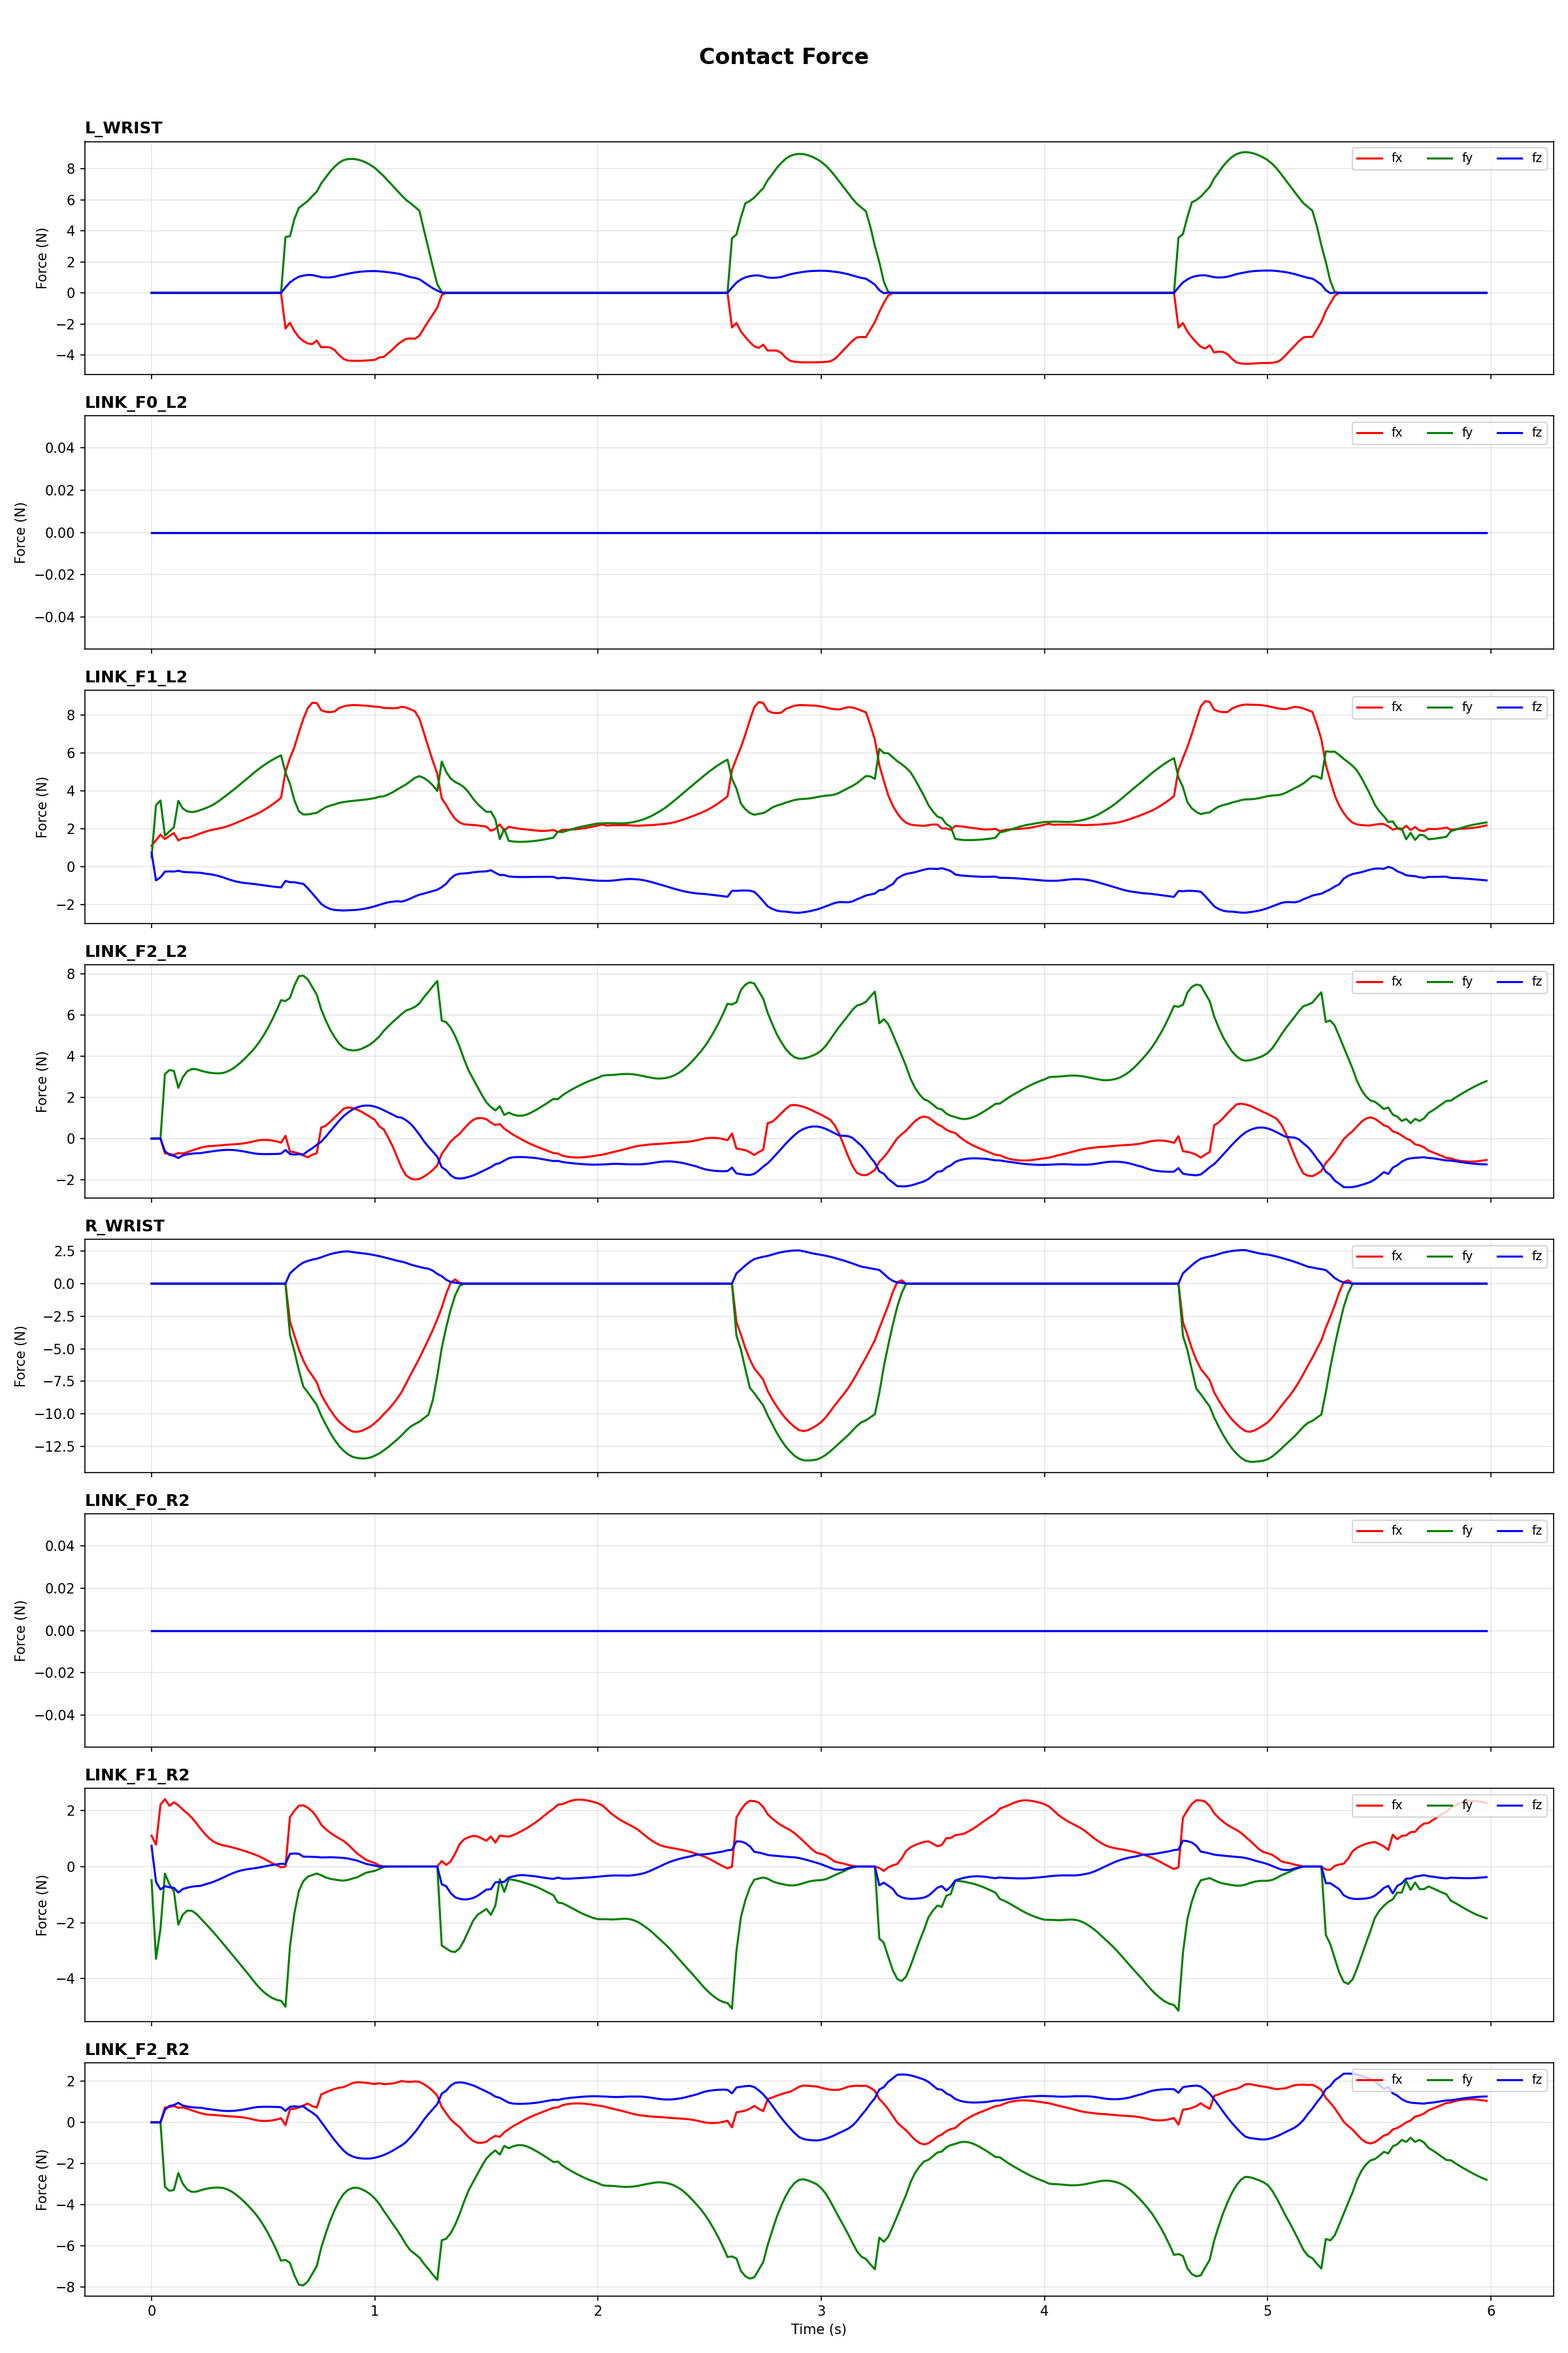
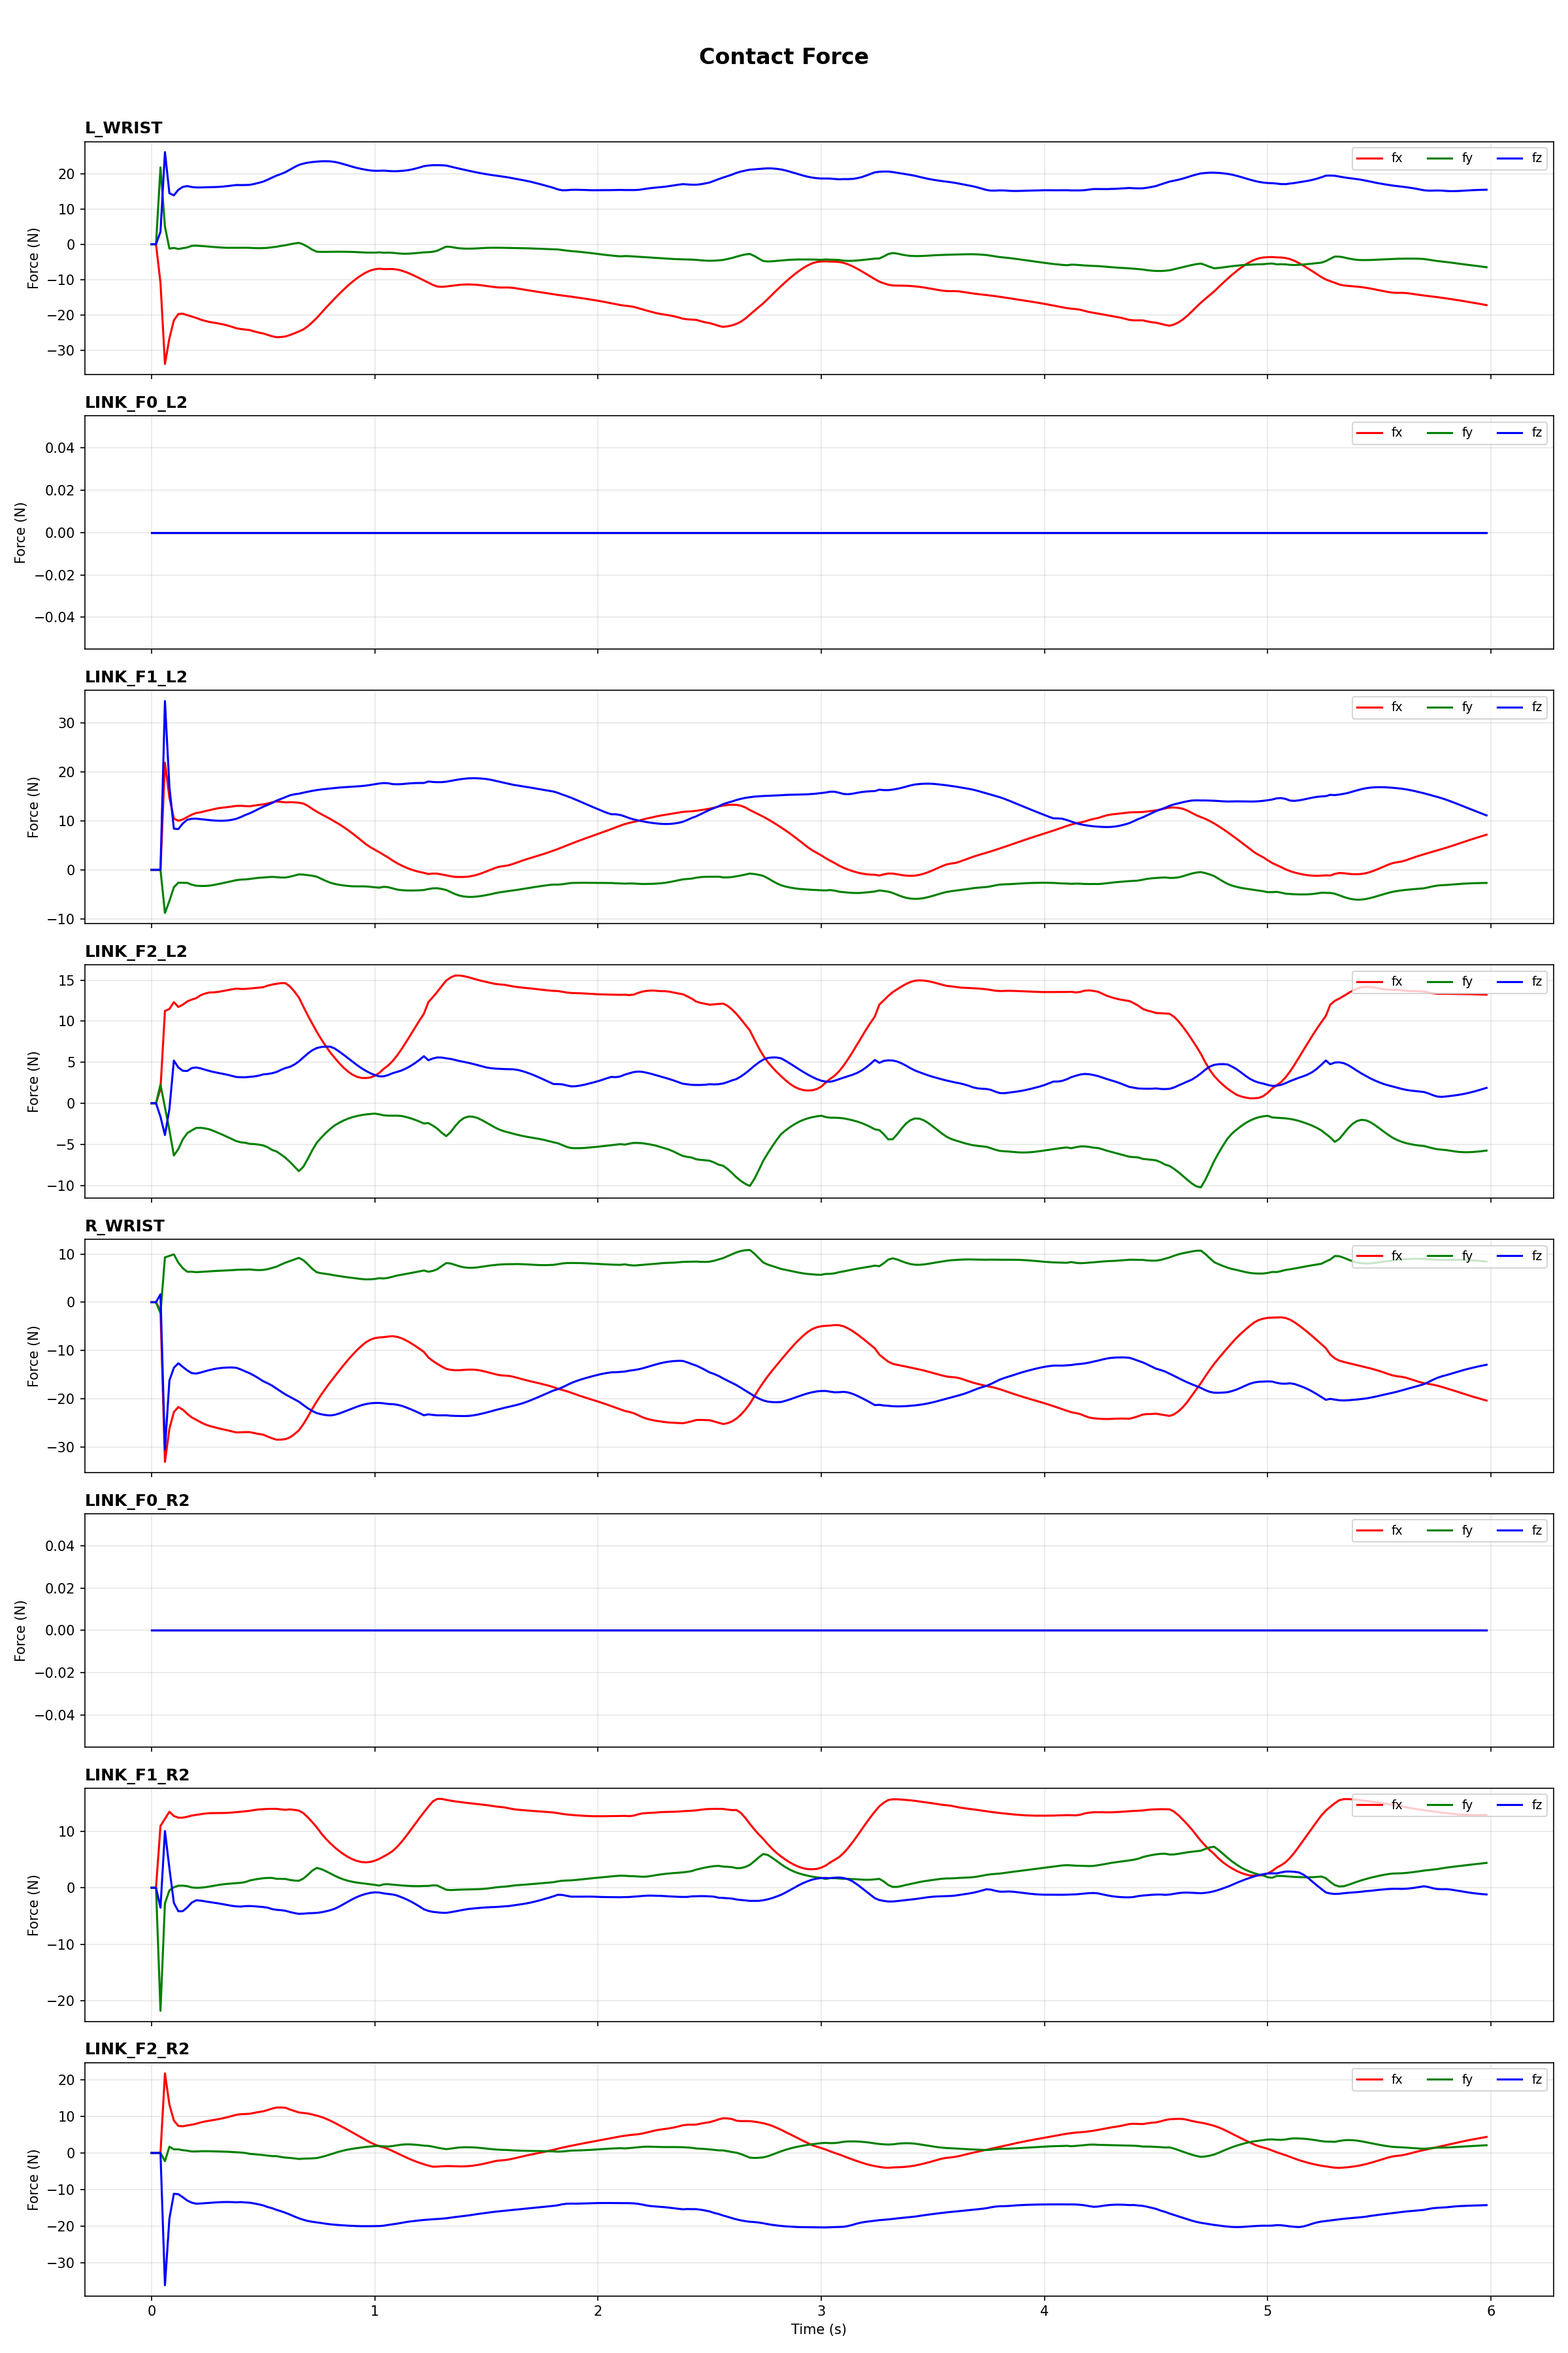
refactor(xleo_hand): 禁用接触检测并切换至新轨迹数据
- 场景 XML 中启用 contact disable 以排除碰撞干扰
- sim2sim 切换专家轨迹为 massage_data_mink2.pkl
- 更新导出脚本中的运行提示路径
- 更新 sim2sim 分析图表

diff --git a/mujoco_playground/experimental/export_xleo_massage_onnx.py b/mujoco_playground/experimental/export_xleo_massage_onnx.py
@@ -426,7 +426,10 @@ def main():
 
   print(f"\n完成！ONNX 模型已保存到: {args.output}")
   print("可复制到 sim2sim/onnx/ 并运行:")
-  print("  python play_xleo_massage.py")
+  print(
+      f"  python mujoco_playground/experimental/sim2sim/play_xleo_massage.py"
+      f" --model_dir"
+  )
 
 
 if __name__ == "__main__":

diff --git a/mujoco_playground/experimental/sim2sim/play_xleo_massage.py b/mujoco_playground/experimental/sim2sim/play_xleo_massage.py
@@ -67,7 +67,7 @@ FINGER_KP = 3.0  # Finger joints
 FINGER_KD = 0.1
 
 # --- Expert trajectory ---
-TRAJ_PATH = consts.DATA_PATH / "massage_data_mink.pkl"
+TRAJ_PATH = consts.DATA_PATH / "massage_data_mink2.pkl"
 
 # --- Future target observation steps ---
 TARGET_OBS_STEPS = [1, 2, 3]
